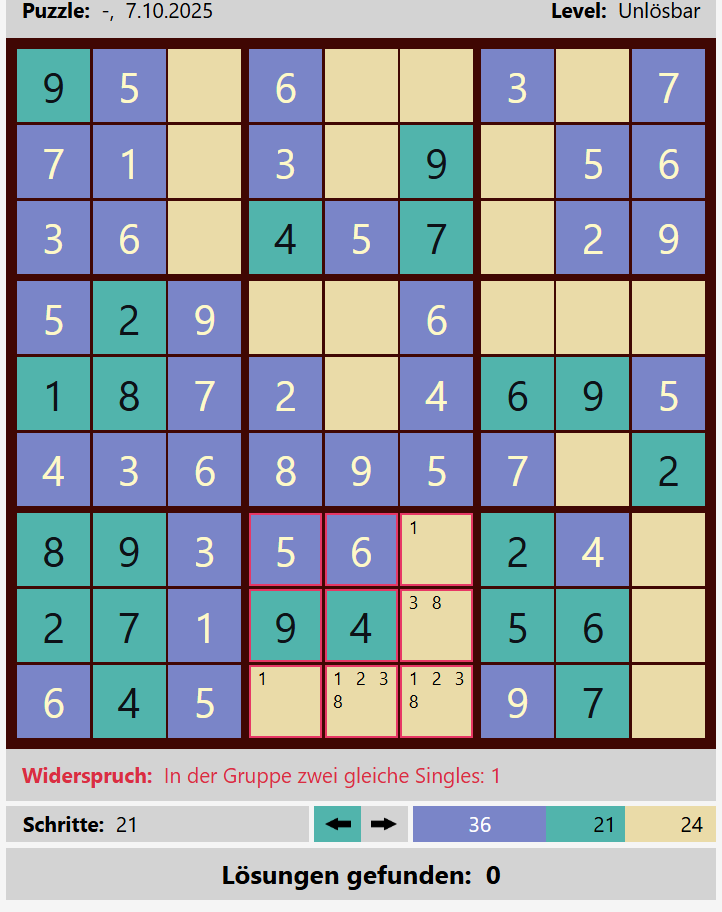
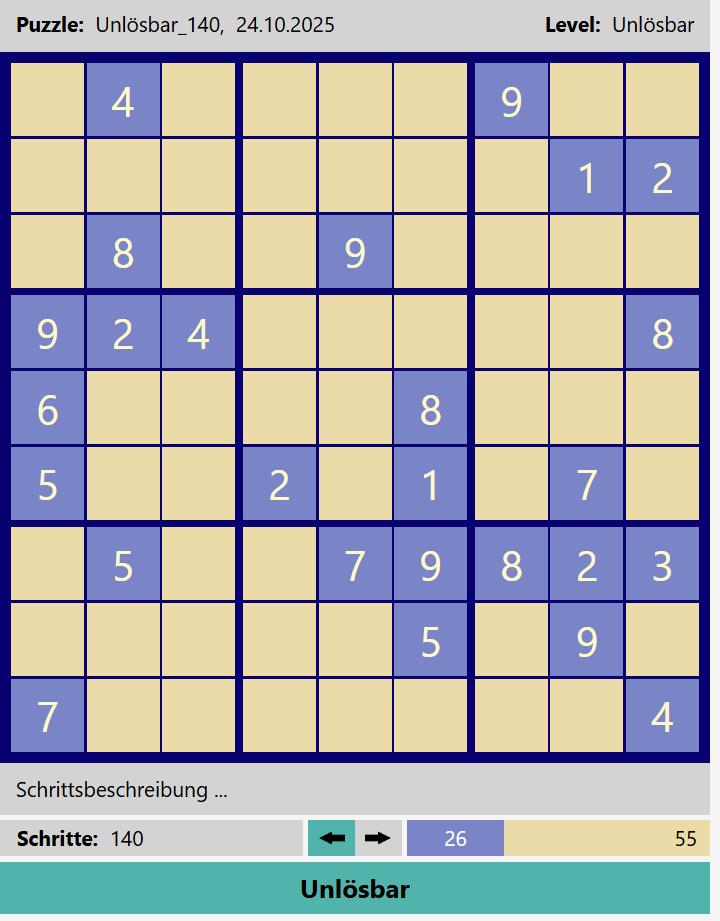
v1076

diff --git a/sw.js b/sw.js
@@ -10,7 +10,7 @@ var APP_PREFIX = 'sudo_';
 // you need to change this version (version_01, version_02…). 
 // If you don't change the version, the service worker will give your
 // users the old files!
-var VERSION = 'version_1075';
+var VERSION = 'version_1076';
 
 // The files to make available for offline use. make sure to add 
 // others to this list

diff --git a/JS/sudokuCommon.js b/JS/sudokuCommon.js
@@ -1,5 +1,5 @@
 let sudoApp;
-let VERSION = 1075;
+let VERSION = 1076;
 
 // ==========================================
 // Basic classes

diff --git a/help.md b/help.md
@@ -601,21 +601,17 @@ Im Schritt 1 wird die notwendige 1 gesetzt. Danach ergibt sich der Widerspruch i
 
 Die beiden Beispiel-Puzzles zeigen Widersprüche zu den Sudoku-Regeln. Sie sind deshalb unlösbar. Es gibt aber auch unlösbare Puzzles, die (noch) nicht widerspruchsvoll sind. Sie erweisen sich erst nach vielen Suchschritten als widerspruchsvoll.
 
-Puzzle = 050600307710300056360050029509006000007204005436895700003560040001000000605000900
+Puzzle = 040000900000000012080090000924000008600008000500201070050079823000005090700000004
 
-<figure >
-   <img src="./imagesHelp/unloesbar24Schritte.png" alt="verborgen unloesbar" style="max-width:100%">
-    <figcaption style="font-size: 16px; font-style: italic;">Beispiel 3: Widerspruch sichtbar nach 21 Suchschritten; </figcaption>
-</figure>
 
-Nach 21 Suchschritten hat das Puzzle eine Belegung, die in Block 8 zweimal die 1 enthalten soll. Ein Widerspruch zur Sudoku-Regel, dass jede Zahl nur genau einmal im Block vorkommen darf.
+Nach 140 Trial&error-Schritten wurde der Suchbaum vollständig durchlaufen, ohne dass eine Lösung gefunden wurde. 
 
 <figure >
    <img src="./imagesHelp/keineLoesung.png" alt="verborgen unloesbar" style="max-width:100%">
     <figcaption style="font-size: 16px; font-style: italic;">Nach abgeschlossener Suche: Keine Lösung</figcaption>
 </figure>
 
-Zusammengefasst: der Solver berechnet die Unlösbartkeit von Puzzles, indem er sie zu lösen versucht: Stößt er dabei auf elementare Widersprüche, ist das Ausgangspuzzle unlösbar.
+Zusammengefasst: der Solver berechnet die Unlösbartkeit von Puzzles, indem er sie zu lösen versucht: Stößt er dabei auf elementare Widersprüche, die keinen weiteren Try nach sich haben, ist das Ausgangspuzzle unlösbar.
 
 ### Elementare Widersprüche in Zellen und Gruppen
 
